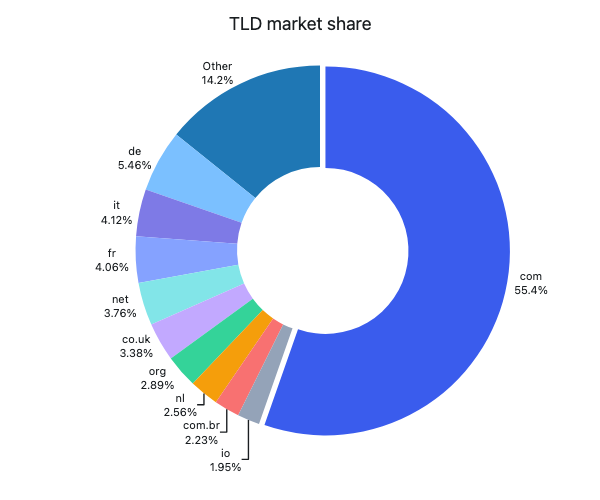
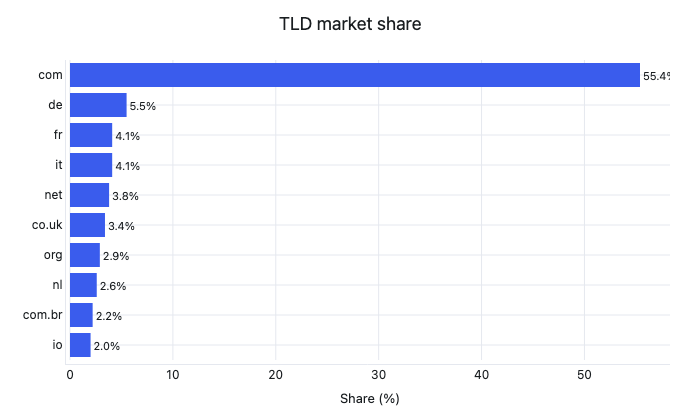
refactor: replace donut charts with horizontal bar charts showing market share percentages

diff --git a/src/backlink_pricing_model/visualization/distributions_plots.py b/src/backlink_pricing_model/visualization/distributions_plots.py
@@ -184,30 +184,29 @@ def plot_tld_distribution(
     top_n: int = 10,
     config: PlotConfig | None = None,
 ) -> go.Figure:
-    """Plot TLD market share as a donut chart."""
+    """Plot TLD market share as horizontal bar chart with percentages."""
     tld_counts = df["tld"].value_counts()
+    total = tld_counts.sum()
     top = tld_counts.head(top_n)
-    other = tld_counts.iloc[top_n:].sum()
-    if other > 0:
-        top = pd.concat([top, pd.Series({"Other": other})])
+    pct = (top / total * 100).round(1)
 
     fig = go.Figure(
-        go.Pie(
-            labels=top.index,
-            values=top.values,
-            hole=0.45,
-            marker_colors=CATEGORICAL_PALETTE[: len(top)],
-            textinfo="label+percent",
+        go.Bar(
+            x=pct.values,
+            y=pct.index,
+            orientation="h",
+            marker_color=PRIMARY_BLUE,
+            text=[f"{v}%" for v in pct.values],
             textposition="outside",
             textfont_size=11,
-            pull=[0.03 if i == 0 else 0 for i in range(len(top))],
         )
     )
     fig.update_layout(
         title_text=_title(config, "TLD market share"),
-        showlegend=False,
-        height=500,
-        width=600,
+        xaxis_title="Share (%)",
+        yaxis_title=None,
+        yaxis={"categoryorder": "total ascending"},
+        height=max(350, top_n * 32 + 100),
     )
     _apply_base_layout(fig, config)
     _maybe_save(fig, config)
@@ -251,30 +250,29 @@ def plot_country_distribution(
     top_n: int = 10,
     config: PlotConfig | None = None,
 ) -> go.Figure:
-    """Plot traffic country market share as a donut chart."""
+    """Plot traffic country market share as horizontal bar chart with percentages."""
     country_counts = df["country"].dropna().value_counts()
+    total = country_counts.sum()
     top = country_counts.head(top_n)
-    other = country_counts.iloc[top_n:].sum()
-    if other > 0:
-        top = pd.concat([top, pd.Series({"Other": other})])
+    pct = (top / total * 100).round(1)
 
     fig = go.Figure(
-        go.Pie(
-            labels=top.index,
-            values=top.values,
-            hole=0.45,
-            marker_colors=CATEGORICAL_PALETTE[: len(top)],
-            textinfo="label+percent",
+        go.Bar(
+            x=pct.values,
+            y=pct.index,
+            orientation="h",
+            marker_color=LIGHT_BLUE,
+            text=[f"{v}%" for v in pct.values],
             textposition="outside",
             textfont_size=11,
-            pull=[0.03 if i == 0 else 0 for i in range(len(top))],
         )
     )
     fig.update_layout(
         title_text=_title(config, "Traffic country market share"),
-        showlegend=False,
-        height=500,
-        width=600,
+        xaxis_title="Share (%)",
+        yaxis_title=None,
+        yaxis={"categoryorder": "total ascending"},
+        height=max(350, top_n * 32 + 100),
     )
     _apply_base_layout(fig, config)
     _maybe_save(fig, config)
